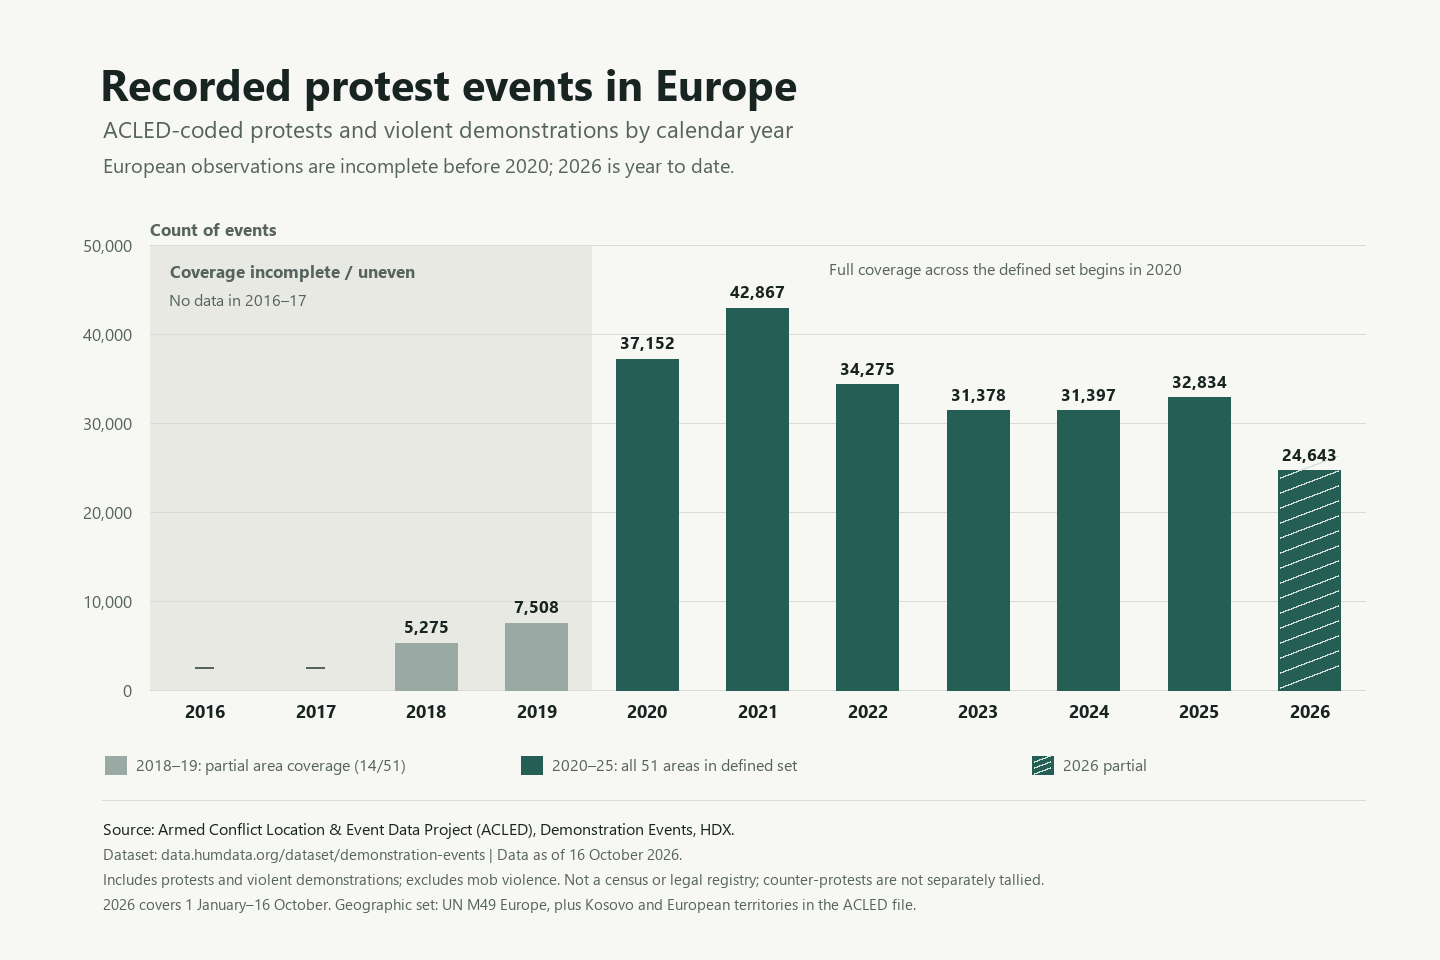
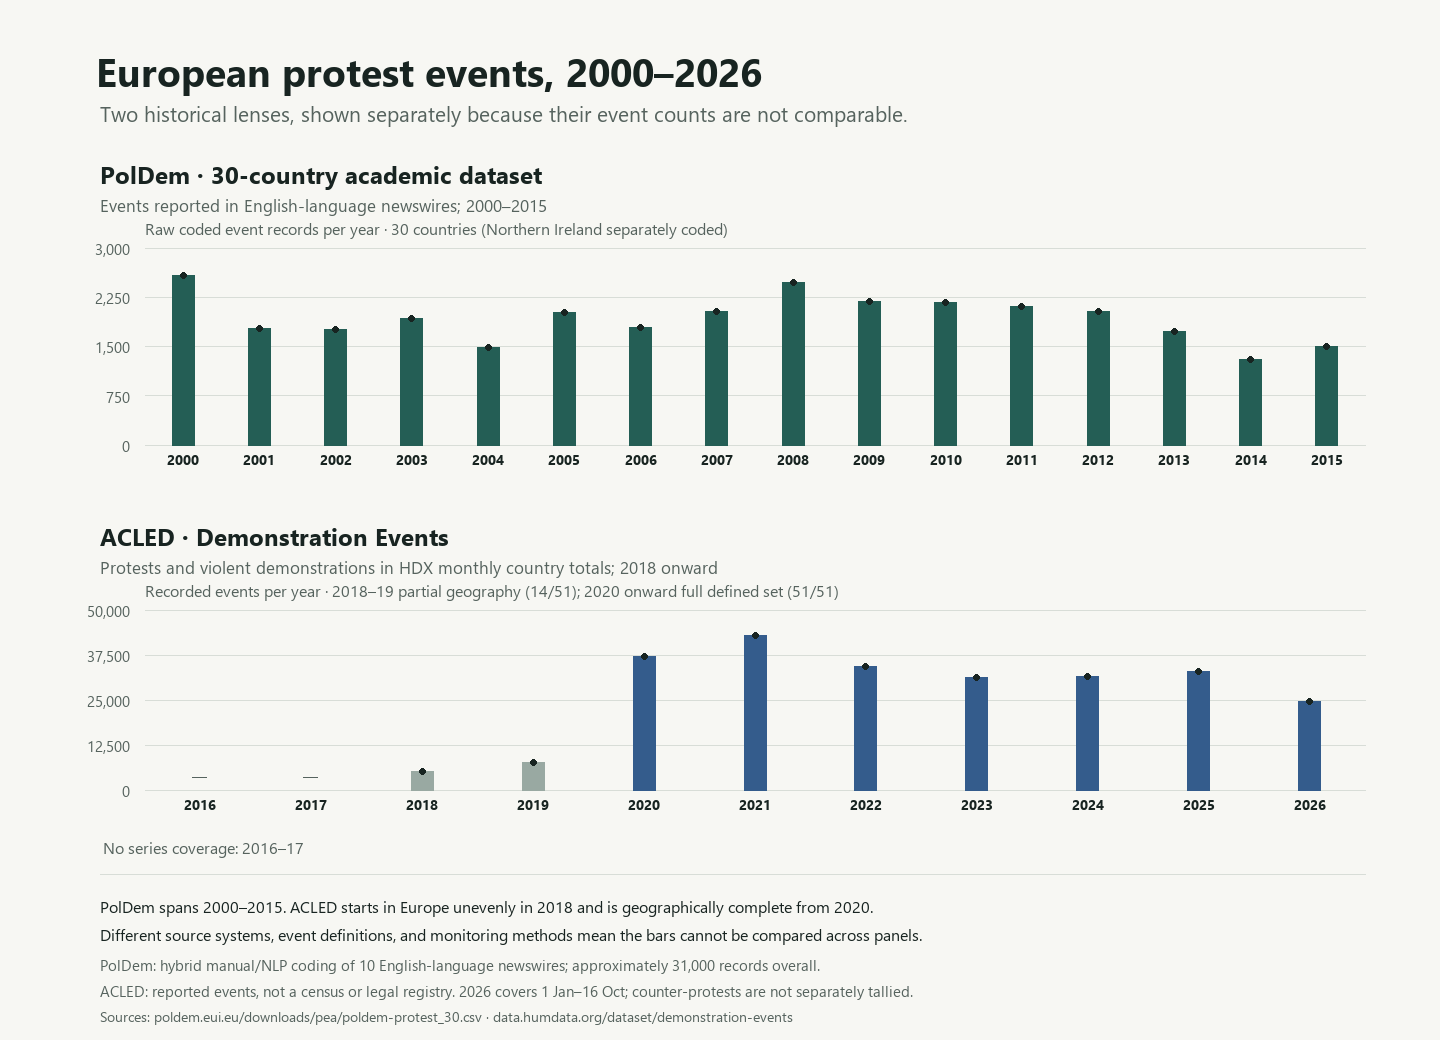
Extend protest graph with pre-pandemic baseline

diff --git a/research/build_protest_graph.py b/research/build_protest_graph.py
@@ -6,52 +6,61 @@ from collections import Counter, defaultdict
 from pathlib import Path
 
 import openpyxl
+import pandas as pd
 from PIL import Image, ImageDraw, ImageFont
 
 EUROPE = {
-    'Albania', 'Andorra', 'Austria', 'Belarus', 'Belgium',
-    'Bailiwick of Guernsey', 'Bailiwick of Jersey',
-    'Bosnia and Herzegovina', 'Bulgaria', 'Croatia', 'Czech Republic',
-    'Denmark', 'Estonia', 'Faroe Islands', 'Finland', 'France', 'Germany',
-    'Gibraltar', 'Greece', 'Greenland', 'Hungary', 'Iceland', 'Ireland',
+    'Albania', 'Andorra', 'Austria', 'Belarus', 'Belgium', 'Bailiwick of Guernsey',
+    'Bailiwick of Jersey', 'Bosnia and Herzegovina', 'Bulgaria', 'Croatia',
+    'Czech Republic', 'Denmark', 'Estonia', 'Faroe Islands', 'Finland', 'France',
+    'Germany', 'Gibraltar', 'Greece', 'Greenland', 'Hungary', 'Iceland', 'Ireland',
     'Isle of Man', 'Italy', 'Kosovo', 'Latvia', 'Liechtenstein', 'Lithuania',
     'Luxembourg', 'Malta', 'Moldova', 'Monaco', 'Montenegro', 'Netherlands',
     'North Macedonia', 'Norway', 'Poland', 'Portugal', 'Romania', 'Russia',
-    'San Marino', 'Serbia', 'Slovakia', 'Slovenia', 'Spain', 'Sweden',
-    'Switzerland', 'Ukraine', 'United Kingdom', 'Vatican City',
+    'San Marino', 'Serbia', 'Slovakia', 'Slovenia', 'Spain', 'Sweden', 'Switzerland',
+    'Ukraine', 'United Kingdom', 'Vatican City',
 }
-YEARS = list(range(2016, 2027))
+ACLED_YEARS = list(range(2016, 2027))
 AS_OF = '2026-10-16'
-SOURCE = 'Armed Conflict Location & Event Data Project (ACLED), Demonstration Events, HDX; https://data.humdata.org/dataset/demonstration-events'
+ACLED_SOURCE = 'ACLED Demonstration Events, HDX; https://data.humdata.org/dataset/demonstration-events'
+POLDEM_SOURCE = 'Kriesi et al. (2020), PolDem Protest Dataset 30; https://poldem.eui.eu/downloads/pea/poldem-protest_30.csv'
 
 
-def load_counts(workbook: Path):
+def load_acled_workbook(workbook: Path):
     wb = openpyxl.load_workbook(workbook, read_only=True, data_only=True)
     annual = Counter()
-    covered_countries = defaultdict(set)
+    covered = defaultdict(set)
     for sheet_name in ('Non_HRP', 'HRP_1', 'HRP_2'):
-        ws = wb[sheet_name]
-        for row in ws.iter_rows(min_row=2, values_only=True):
-            country, month, year, events = row[0], row[-3], int(row[-2]), row[-1]
-            if country not in EUROPE:
-                continue
-            annual[year] += int(events or 0)
-            covered_countries[year].add(country)
+        for row in wb[sheet_name].iter_rows(min_row=2, values_only=True):
+            country, year, events = row[0], int(row[-2]), row[-1]
+            if country in EUROPE:
+                annual[year] += int(events or 0)
+                covered[year].add(country)
     wb.close()
-    return annual, covered_countries
+    return annual, covered
 
 
-def load_summary(csv_path: Path):
-    annual = {}
-    covered = {}
-    with csv_path.open(newline='', encoding='utf-8-sig') as f:
+def load_acled_csv(path: Path):
+    annual, covered = {}, {}
+    with path.open(newline='', encoding='utf-8-sig') as f:
         for row in csv.DictReader(f):
             year = int(row['year'])
             if row['acled_demonstration_events']:
                 annual[year] = int(row['acled_demonstration_events'])
-            n_areas = row.get('areas_with_records') or row.get('countries_with_records') or '0'
-            covered[year] = set(range(int(n_areas)))
+            count = int(row.get('areas_with_records') or row.get('countries_with_records') or 0)
+            covered[year] = set(range(count))
     return annual, covered
+
+
+def load_poldem(path: Path):
+    df = pd.read_csv(path)
+    if 'id_event' not in df or 'year' not in df or 'country_name' not in df:
+        raise ValueError('PolDem file must include id_event, year, and country_name columns.')
+    # Dataset rows are the final de-duplicated event records. Keep raw event counts;
+    # do not apply the country/sample weights intended for cross-country comparisons.
+    annual = df.groupby('year')['id_event'].nunique().to_dict()
+    areas = df.groupby('year')['country_name'].nunique().to_dict()
+    return annual, areas
 
 
 def font(size, bold=False):
@@ -62,103 +71,98 @@ def font(size, bold=False):
         return ImageFont.load_default()
 
 
-def build_chart(annual, covered, out: Path):
-    W, H = 1440, 960
+def label(draw, xy, text, size=17, color='#53625D', bold=False):
+    draw.text(xy, text, font=font(size, bold), fill=color)
+
+
+def panel(draw, values, years, box, max_value, series_color, coverage_note, partial_years=()):
+    left, top, right, bottom = box
+    grid, ink, muted = '#D8DDD7', '#182421', '#56635E'
+    for tick in range(0, max_value + 1, max_value // 4):
+        y = bottom - (tick / max_value) * (bottom - top)
+        draw.line((left, y, right, y), fill=grid, width=1)
+        txt = f'{tick:,}'
+        b = draw.textbbox((0, 0), txt, font=font(15))
+        draw.text((left - 15 - (b[2] - b[0]), y - 10), txt, font=font(15), fill=muted)
+    step = (right - left) / len(years)
+    bar_width = max(8, min(22, step * .62))
+    for i, year in enumerate(years):
+        x = left + step * (i + .5)
+        value = values.get(year)
+        if value is not None:
+            y = bottom - (value / max_value) * (bottom - top)
+            color = '#99A9A2' if year in partial_years else series_color
+            draw.rectangle((x - bar_width / 2, y, x + bar_width / 2, bottom), fill=color)
+            draw.ellipse((x - 3, y - 3, x + 3, y + 3), fill=ink)
+        else:
+            draw.text((x, bottom - 15), '—', font=font(15), fill=muted, anchor='mm')
+        draw.text((x, bottom + 10), str(year), font=font(14, True), fill=ink, anchor='mt')
+    label(draw, (left, top - 31), coverage_note, 16, muted)
+
+
+def build_chart(poldem, acled, out: Path):
+    W, H = 1440, 1040
     bg, ink, muted = '#F7F7F3', '#182421', '#56635E'
-    primary, partial, incomplete, grid = '#245E55', '#9AA9A3', '#E8E9E3', '#D8DCD6'
     image = Image.new('RGB', (W, H), bg)
     d = ImageDraw.Draw(image)
-    d.text((100, 54), 'Recorded protest events in Europe', font=font(43, True), fill=ink)
-    d.text((103, 113), 'ACLED-coded protests and violent demonstrations by calendar year', font=font(23), fill=muted)
-    d.text((103, 151), 'European observations are incomplete before 2020; 2026 is year to date.', font=font(20), fill=muted)
+    label(d, (96, 44), 'European protest events, 2000–2026', 39, ink, True)
+    label(d, (100, 99), 'Two historical lenses, shown separately because their event counts are not comparable.', 21, muted)
 
-    left, right, top, bottom = 150, 1365, 245, 690
-    max_value = 50000
-    # Earlier years use an explicit shaded field because the country coverage is not comparable.
-    step = (right - left) / len(YEARS)
-    d.rectangle((left, top, left + step * 4, bottom), fill=incomplete)
-    for tick in range(0, max_value + 1, 10000):
-        y = bottom - (tick / max_value) * (bottom - top)
-        d.line((left, y, right, y), fill=grid, width=1)
-        label = f'{tick:,}' if tick else '0'
-        box = d.textbbox((0, 0), label, font=font(17))
-        d.text((left - 18 - (box[2] - box[0]), y - 12), label, font=font(17), fill=muted)
-    d.text((left, top - 28), 'Count of events', font=font(17, True), fill=muted)
+    label(d, (100, 158), 'PolDem · 30-country academic dataset', 24, ink, True)
+    label(d, (100, 193), 'Events reported in English-language newswires; 2000–2015', 17, muted)
+    panel(d, poldem, list(range(2000, 2016)), (145, 248, 1365, 445), 3000, '#245E55',
+          'Raw coded event records per year · 30 countries (Northern Ireland separately coded)')
 
-    d.text((left + 20, top + 14), 'Coverage incomplete / uneven', font=font(17, True), fill=muted)
-    d.text((left + 19, top + 43), 'No data in 2016–17', font=font(16), fill=muted)
-    d.text((left + step * 6.15, top + 12), 'Full coverage across the defined set begins in 2020', font=font(16), fill=muted)
+    label(d, (100, 520), 'ACLED · Demonstration Events', 24, ink, True)
+    label(d, (100, 555), 'Protests and violent demonstrations in HDX monthly country totals; 2018 onward', 17, muted)
+    panel(d, acled, ACLED_YEARS, (145, 610, 1365, 790), 50000, '#345C8C',
+          'Recorded events per year · 2018–19 partial geography (14/51); 2020 onward full defined set (51/51)',
+          partial_years=(2018, 2019))
 
-    centers = []
-    for i, year in enumerate(YEARS):
-        cx = left + step * (i + 0.5)
-        centers.append(cx)
-        val = annual.get(year)
-        if val is not None:
-            bar_h = val / max_value * (bottom - top)
-            y = bottom - bar_h
-            color = partial if year in (2018, 2019) else primary
-            d.rectangle((cx - 31, y, cx + 31, bottom), fill=color)
-            if year == 2026:
-                # Hatch marks distinguish the partial calendar year without relying on color alone.
-                for yy in range(int(y + 7), bottom, 15):
-                    d.line((cx - 29, yy, cx + 29, yy - 22), fill='#D3E0DA', width=2)
-            label = f'{val:,}'
-            box = d.textbbox((0, 0), label, font=font(17, True))
-            d.text((cx - (box[2] - box[0]) / 2, y - 29), label, font=font(17, True), fill=ink)
-        else:
-            d.text((cx, bottom - 25), '—', font=font(19, True), fill=muted, anchor='mm')
-        d.text((cx, bottom + 15), str(year), font=font(18, True), fill=ink, anchor='mt')
-
-    # Compact coverage/status key.
-    key_y = 753
-    d.rectangle((105, key_y + 3, 126, key_y + 21), fill=partial)
-    d.text((136, key_y), '2018–19: partial area coverage (14/51)', font=font(16), fill=muted)
-    d.rectangle((521, key_y + 3, 542, key_y + 21), fill=primary)
-    d.text((552, key_y), '2020–25: all 51 areas in defined set', font=font(16), fill=muted)
-    d.rectangle((1032, key_y + 3, 1053, key_y + 21), fill=primary)
-    for yy in range(key_y + 5, key_y + 20, 6):
-        d.line((1034, yy + 3, 1050, yy - 3), fill='#D3E0DA', width=2)
-    d.text((1063, key_y), '2026 partial', font=font(16), fill=muted)
-
-    d.line((102, 800, 1365, 800), fill=grid, width=1)
-    d.text((103, 817), 'Source: Armed Conflict Location & Event Data Project (ACLED), Demonstration Events, HDX.', font=font(16), fill=ink)
-    d.text((103, 843), 'Dataset: data.humdata.org/dataset/demonstration-events | Data as of 16 October 2026.', font=font(15), fill=muted)
-    d.text((103, 868), 'Includes protests and violent demonstrations; excludes mob violence. Not a census or legal registry; counter-protests are not separately tallied.', font=font(15), fill=muted)
-    d.text((103, 893), '2026 covers 1 January–16 October. Geographic set: UN M49 Europe, plus Kosovo and European territories in the ACLED file.', font=font(15), fill=muted)
-
+    # Use visible gap labels instead of interpolating across missing or incompatible years.
+    label(d, (103, 836), 'No series coverage: 2016–17', 16, muted)
+    d.line((100, 874, 1365, 874), fill='#D8DDD7', width=1)
+    label(d, (100, 895), 'PolDem spans 2000–2015. ACLED starts in Europe unevenly in 2018 and is geographically complete from 2020.', 16, ink)
+    label(d, (100, 923), 'Different source systems, event definitions, and monitoring methods mean the bars cannot be compared across panels.', 16, ink)
+    label(d, (100, 954), 'PolDem: hybrid manual/NLP coding of 10 English-language newswires; approximately 31,000 records overall.', 15, muted)
+    label(d, (100, 980), 'ACLED: reported events, not a census or legal registry. 2026 covers 1 Jan–16 Oct; counter-protests are not separately tallied.', 15, muted)
+    label(d, (100, 1006), 'Sources: poldem.eui.eu/downloads/pea/poldem-protest_30.csv · data.humdata.org/dataset/demonstration-events', 14, muted)
     image.save(out, format='PNG', optimize=True)
 
 
+def write_poldem_csv(annual, areas, path):
+    with path.open('w', newline='', encoding='utf-8') as f:
+        writer = csv.writer(f)
+        writer.writerow(['year', 'poldem_event_records', 'areas_with_records', 'dataset', 'data_source', 'counting_note'])
+        for year in range(2000, 2016):
+            writer.writerow([year, annual[year], areas[year], 'PolDem Protest Dataset 30, version 1', POLDEM_SOURCE,
+                             'Unweighted unique event IDs; media-coded; separate source from ACLED'])
+
+
 def main():
-    parser = argparse.ArgumentParser(description='Create an annual Europe protest-events graph from the ACLED HDX workbook.')
-    source = parser.add_mutually_exclusive_group(required=True)
-    source.add_argument('--input', type=Path, help='Path to the downloaded demonstration-events.xlsx workbook')
-    source.add_argument('--from-csv', type=Path, help='Regenerate the graph from an existing annual CSV')
+    parser = argparse.ArgumentParser(description='Create a separated long-run graph of PolDem and ACLED Europe protest-event series.')
+    p = parser.add_mutually_exclusive_group(required=True)
+    p.add_argument('--poldem-csv', type=Path, help='Downloaded PolDem poldem-protest_30.csv')
+    p.add_argument('--poldem-summary', type=Path, help='Existing annual PolDem summary CSV')
+    a = parser.add_mutually_exclusive_group(required=True)
+    a.add_argument('--acled-input', type=Path, help='Downloaded ACLED Demonstration Events workbook')
+    a.add_argument('--acled-summary', type=Path, help='Existing annual ACLED summary CSV')
     parser.add_argument('--out-dir', type=Path, default=Path(__file__).parent)
     args = parser.parse_args()
-    annual, covered = load_counts(args.input) if args.input else load_summary(args.from_csv)
     args.out_dir.mkdir(parents=True, exist_ok=True)
-    csv_path = args.out_dir / 'protest-events-europe-by-year.csv'
-    with csv_path.open('w', newline='', encoding='utf-8') as f:
-        writer = csv.writer(f)
-        writer.writerow(['year', 'acled_demonstration_events', 'areas_with_records', 'areas_in_scope', 'coverage_status', 'dataset_as_of', 'data_source'])
-        for year in YEARS:
-            n_countries = len(covered.get(year, set()))
-            if year <= 2017:
-                count, status = '', 'no European observations in this extract'
-            elif year <= 2019:
-                count, status = annual[year], 'partial area coverage'
-            elif year == 2026:
-                count, status = annual[year], 'partial calendar year through 16 October'
-            else:
-                count, status = annual[year], 'full calendar year; all areas in scope represented'
-            writer.writerow([year, count, n_countries, len(EUROPE), status, AS_OF, SOURCE])
-    build_chart(annual, covered, args.out_dir / 'protest-events-europe-by-year.png')
-    print('Annual totals and area coverage:')
-    for year in YEARS:
-        print(year, annual.get(year), len(covered.get(year, set())))
-    print('Wrote', csv_path)
+    if args.poldem_csv:
+        poldem, areas = load_poldem(args.poldem_csv)
+        write_poldem_csv(poldem, areas, args.out_dir / 'protest-events-europe-poldem-2000-2015.csv')
+    else:
+        poldem, areas = {}, {}
+        with args.poldem_summary.open(newline='', encoding='utf-8-sig') as f:
+            for row in csv.DictReader(f):
+                year = int(row['year'])
+                poldem[year] = int(row['poldem_event_records'])
+                areas[year] = int(row['areas_with_records'])
+    acled, _ = load_acled_workbook(args.acled_input) if args.acled_input else load_acled_csv(args.acled_summary)
+    build_chart(poldem, acled, args.out_dir / 'protest-events-europe-by-year.png')
+    print('Wrote', args.out_dir / 'protest-events-europe-poldem-2000-2015.csv')
     print('Wrote', args.out_dir / 'protest-events-europe-by-year.png')
 
 

diff --git a/research/protest-data-inventory.md b/research/protest-data-inventory.md
@@ -17,7 +17,7 @@ The different causes do not invalidate the aggregate question of whether protest
 |---|---|---|---|
 | [ACLED event data](https://acleddata.com/methodology/acled-codebook) | Expert-coded event data across all European countries/territories in its coverage list. Coverage begins Jan. 2018 for some countries and Jan. 2020 for most Western and Northern European countries; check the [country/time coverage table](https://acleddata.com/methodology/countrytime-period-coverage) before comparing. Current data are updated weekly. | The strongest starting point for counting reported protest events by date, location, event type, actor, and source; separates peaceful protests, protests with intervention, excessive force against protesters, and violent demonstrations/riots. Its definition is an in-person public gathering of at least three people advocating a shared cause. | This is not a census: events must be reported in sources ACLED monitors and meet its coding criteria. It excludes strikes absent a demonstration, symbolic or legislative acts, and individual actions. It merges same-day, same-place incidents with the same actors and activity. It records events, not continuous campaigns or whether a protest “worked.” “Counter-demonstration” is a formal tag documented for the US, not a Europe-wide field; elsewhere a counter-protest may be visible in actors/notes/sources but should not be assumed exhaustively tagged. The data do not systematically distinguish legally notified, authorized, prohibited, or spontaneous gatherings. Access requires a myACLED account; API, export and curated downloads are available after registration ([access guide](https://acleddata.com/faq/how-can-i-access-and-use-acled-data), [API guide](https://acleddata.com/api-documentation/getting-started)). |
 | [GDELT Event Database](https://www.gdeltproject.org/data.html) | Global, machine-coded events extracted from monitored news, with files/API and broad historical coverage. GDELT 2.0 event files begin 19 Feb. 2015; feeds update every 15 minutes. Its CAMEO event taxonomy includes protest codes such as “demonstrate or rally.” | A useful independent news-coverage cross-check and a way to find reported events/articles ACLED may not capture. | It counts coded media-reported events, not verified gatherings or registrations. News availability, syndication, duplicate reporting, translation, geolocation, event coding, and event-date versus report-date affect counts. The 15-minute feed is not 15-minute event precision. Do not present raw GDELT counts as “all protests.” Use it for discovery/triangulation, with deduplication and manual checks. [Event codebook](https://data.gdeltproject.org/documentation/GDELT-Event_Codebook-V2.0.pdf). |
-| [PolDem protest events](https://poldem.eui.eu/data-overview/) | Academic protest-event datasets compiled from media: a 30-country dataset for 2000–2015, plus narrower datasets with other country/time spans. | Valuable historical baseline and a clear demonstration that comparable European event research is possible. | It does not cover the article’s 2023–26 period. It cannot substantiate a post–7 October 2023 trend. |
+| [PolDem protest events](https://poldem.eui.eu/data-overview/) | The 30-country dataset contains 30,852 coded protest events across 2000–2015, using English-language newswire reports and hybrid automated/manual coding. | Provides a 16-year pre-pandemic historical baseline. The event file can be aggregated by year to show the earlier rhythm of reported contention. | It ends in 2015 and uses a different source system and event definition from ACLED. Do not compare its raw annual counts numerically with ACLED's. The method is news-based, with documented country/newswire bias; it captures what the monitored wires reported, not every protest. |
 | [German Protest Registrations Dataset](https://zenodo.org/records/10094245) | FOI-derived records of protests registered with authorities in 16 German cities. Consistent coverage for five cities, 2018–22; all included cities have 2022 data. Contains dates, organizers, topics, registered participants, and observed participants for some cities. | A rare view into notified/registered events, useful for showing how registrations differ from media-coded event data and for German historical context. | City-limited and ends in 2022, so it cannot supply a current European comparison. It excludes gatherings not registered with those authorities and has varying completeness across cities. |
 | [UCDP Violent Political Protest GED](https://ucdp.uu.se/downloads/) | Event-level dataset of violent political protest events, 2011–2025, geocoded to village and day; distinct from a dataset of all protests. | A corroborating source for the violent escalation part of the claim, especially when a definition of “violent political protest” is appropriate. | It deliberately excludes peaceful protest and therefore cannot estimate the share of protests that become violent or whether peaceful protest is becoming less effective. Its scope and violence threshold differ from ACLED’s. |
 | [OSCE/ODIHR assembly monitoring](https://odihr.osce.org/odihr/663487) | Selected, on-the-ground observations across OSCE states, published in periodic monitoring reports; nearly 150 assemblies observed in 36 participating states across monitoring cycles. | Primary-source evidence about policing, restrictions, facilitation, and practical assembly rights in observed cases. | This is a human-rights monitoring programme, not a comprehensive event-count database. |
@@ -46,9 +46,17 @@ The data can support a careful claim about the frequency, recurrence, and violen
 - Uppsala Conflict Data Program, [dataset download center](https://ucdp.uu.se/downloads/).
 - Venice Commission / OSCE-ODIHR, [Guidelines on Freedom of Peaceful Assembly](https://www.venice.coe.int/webforms/documents/default.aspx?pdffile=CDL-AD%282019%29017-e); OSCE/ODIHR, [monitoring reports](https://odihr.osce.org/odihr/663487).
 
-## Annual Europe graph: protest event counts
+## Annual Europe graph: two historical lenses
 
-A first annual graph is now available at `research/protest-events-europe-by-year.png`, with the underlying annual values in `research/protest-events-europe-by-year.csv` and the workbook aggregation in `research/build_protest_graph.py`.
+The graph now includes a substantial pre-COVID period using the PolDem 30-country protest dataset (2000–2015), followed by the ACLED Demonstration Events series (2018–2026). The underlying PolDem annual aggregates are in `research/protest-events-europe-poldem-2000-2015.csv`; ACLED aggregates remain in `research/protest-events-europe-by-year.csv`. The graph builder accepts the downloaded PolDem CSV and the existing ACLED annual summary, or the original ACLED workbook.
+
+PolDem includes 30,852 unique event IDs from 2000 through 2015. Annual counts are 2,586 (2000), 1,770 (2001), 1,756 (2002), 1,926 (2003), 1,478 (2004), 2,012 (2005), 1,792 (2006), 2,031 (2007), 2,473 (2008), 2,189 (2009), 2,167 (2010), 2,104 (2011), 2,036 (2012), 1,732 (2013), 1,297 (2014), and 1,503 (2015). The dataset comprises 30 countries; Northern Ireland is coded separately from the UK in the event geography, which can yield 31 distinct country labels in a year.
+
+The PolDem data are a useful 16-year pre-pandemic baseline, but they do not bridge directly into ACLED. PolDem counts coded event records derived from ten English-language newswire agencies, with a hybrid NLP and human coding process. ACLED's series comes from a different event-monitoring and coding system. Their scales, definitions, country coverage, and source exposure differ. The graph therefore separates the series into two panels with independent vertical scales and leaves 2016–17 unfilled. It supports discussing the historical pattern within each source; it cannot establish a numerical increase between the PolDem and ACLED periods. PolDem's authors report that weighting changes the prominence of some country-level peaks but not the overall temporal pattern (raw and weighted smoothed curves correlate at 0.89).
+
+This extension helps test whether the pandemic period followed an already active protest landscape. It does not isolate the effect of lockdowns. The large jump from incomplete ACLED coverage in 2018–19 to full defined-area coverage in 2020 also means the 2020 count should not be framed as a clean pre/post comparison. A stronger claim about pandemic-related protest needs a stable country panel or within-country design, and separate classification of the events' stated causes.
+
+The annual graph is at `research/protest-events-europe-by-year.png`, with generation logic in `research/build_protest_graph.py`.
 
 The source is ACLED's public **Demonstration Events** workbook on HDX, dated 16 October 2026. HDX describes this series as monthly country-level reported demonstration events. ACLED's definition in this aggregate includes its protest and violent demonstration events, while excluding mob violence. I summed the monthly records across the workbook's three mutually exclusive sheets for UN M49 Europe countries and areas represented in the file, plus Kosovo. The defined set contains 51 countries and areas.
 
